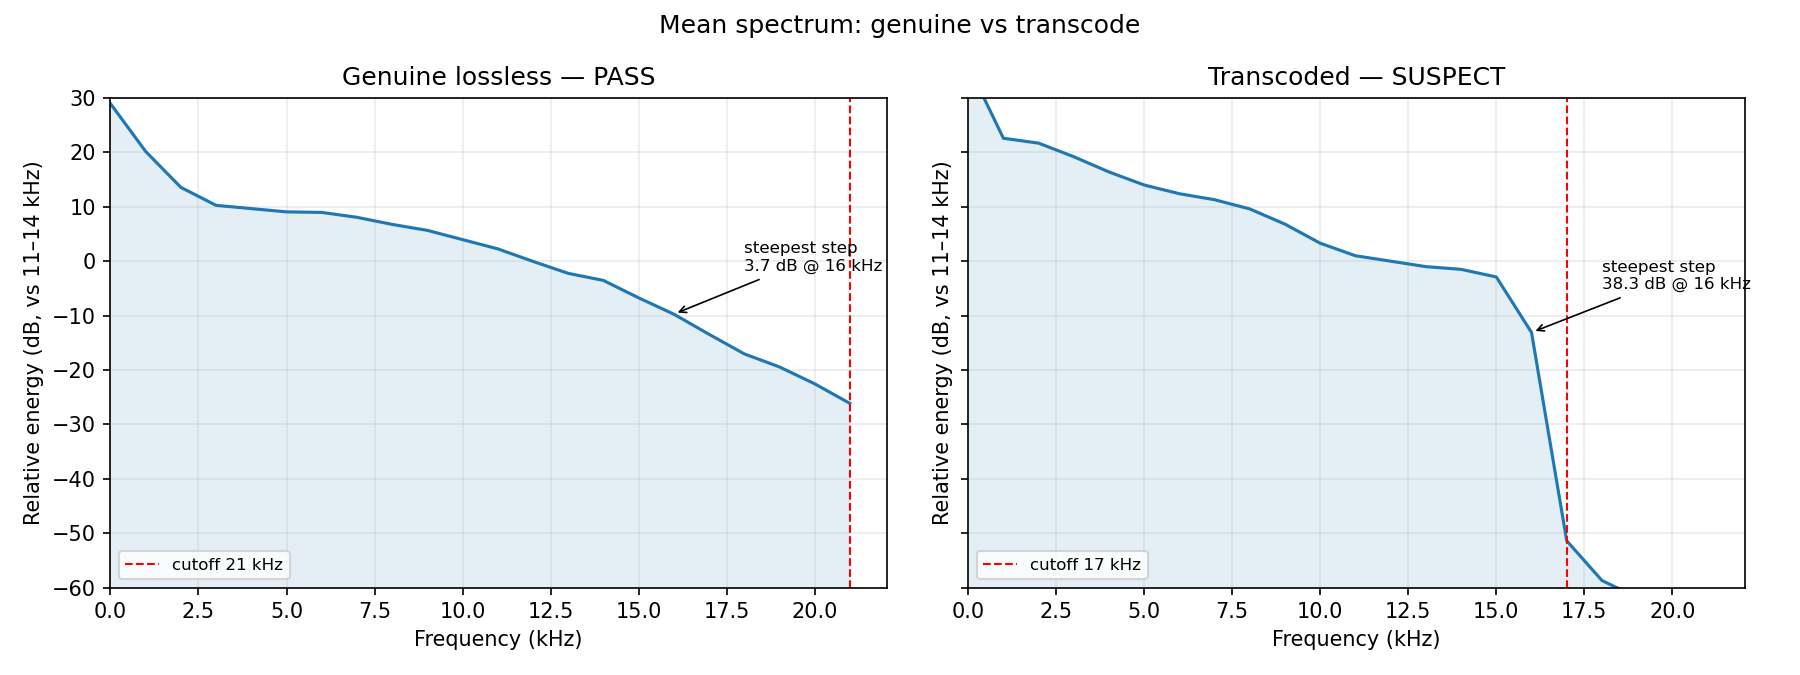
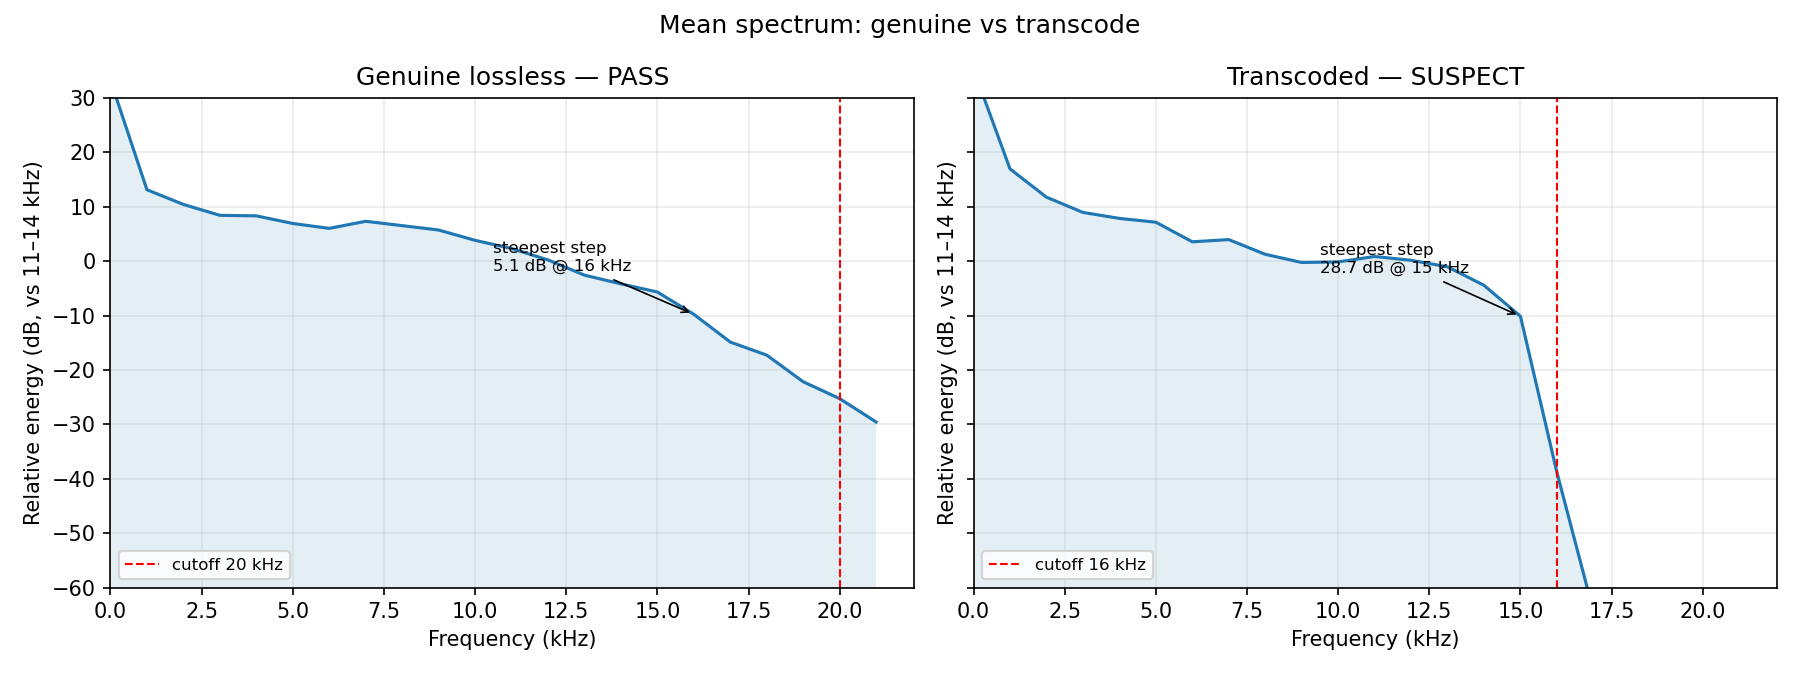
v0.1.1: fix plot_spectrum CLI + annotation, WAV/AIFF tagging, batch robustness, README polish

diff --git a/lossless_verify.py b/lossless_verify.py
@@ -106,6 +106,9 @@ def allowlisted(path, frags):
 
 def find_tool(name, explicit=None):
     if explicit:
+        if not (os.path.isfile(explicit) and os.access(explicit, os.X_OK)):
+            raise FileNotFoundError(
+                "%s not found: %s (not an executable file)" % (name, explicit))
         return explicit
     found = shutil.which(name)
     if not found:
@@ -131,6 +134,13 @@ def decode_mono(path, ffmpeg, ffprobe):
          "-f", "f32le", "-acodec", "pcm_f32le", "-"],
         capture_output=True)
     pcm = np.frombuffer(proc.stdout, dtype=np.float32)
+    if proc.returncode != 0 and len(pcm) == 0:
+        # Hard failure: no audio at all. Surface ffmpeg's message so the log
+        # says *why* (corrupt file, unsupported codec) instead of just UNKNOWN.
+        # (Partial decodes — nonzero exit but some PCM, e.g. truncated files —
+        # still fall through so analyze() can verdict the usable audio.)
+        err = proc.stderr.decode("utf-8", "replace").strip()[:500]
+        raise RuntimeError("ffmpeg failed for %s: %s" % (path, err))
     return pcm, sr
 
 
@@ -250,15 +260,36 @@ def tag_file(path, verdict, cutoff_hz):
         new = (cleaned + " | " + stamp) if cleaned.strip(" |") else stamp
         audio["\xa9cmt"] = [new]
         audio.save()
-    else:  # wav / aiff / ogg / opus: generic comment where supported
+    elif ext in (".wav", ".aiff", ".aif"):
+        # WAV/AIFF store comments as ID3 COMM frames (same as MP3).
+        from mutagen.id3 import ID3, COMM
+        if ext == ".wav":
+            from mutagen.wave import WAVE
+            audio = WAVE(path)
+        else:
+            from mutagen.aiff import AIFF
+            audio = AIFF(path)
+        if audio.tags is None:
+            audio.add_tags()
+        existing = " ".join(c.text[0] for c in audio.tags.getall("COMM") if c.text)
+        cleaned = STAMP_RE.sub("", existing)
+        new = (cleaned + " | " + stamp) if cleaned.strip(" |") else stamp
+        audio.tags.delall("COMM")
+        audio.tags.add(COMM(encoding=3, lang="eng", desc="", text=new))
+        audio.save()
+    elif ext in (".ogg", ".opus"):
+        # Vorbis comments.
         import mutagen
         audio = mutagen.File(path)
-        if audio is not None and hasattr(audio, "tags") and audio.tags is not None:
-            existing = " ".join(audio.get("comment", []))
-            cleaned = STAMP_RE.sub("", existing)
-            new = (cleaned + " | " + stamp) if cleaned.strip(" |") else stamp
-            audio["comment"] = new
-            audio.save()
+        if audio is None or not hasattr(audio, "tags") or audio.tags is None:
+            raise RuntimeError("cannot write comment to %s (no tag container)" % path)
+        existing = " ".join(audio.get("comment", []))
+        cleaned = STAMP_RE.sub("", existing)
+        new = (cleaned + " | " + stamp) if cleaned.strip(" |") else stamp
+        audio["comment"] = new
+        audio.save()
+    else:
+        raise RuntimeError("tagging not supported for %s files" % ext)
     return stamp
 
 
@@ -326,8 +357,15 @@ def handle_file(path, scan_root, args, ffmpeg, ffprobe, allow_frags, sink=None):
         v == "SUSPECT" and not args.sort_suspect)
     dest = None
     if should_sort:
-        dest = sort_file(path, rel, res, args.output_dir, args.move,
-                         args.log_file, args.quiet, sink=sink)
+        try:
+            dest = sort_file(path, rel, res, args.output_dir, args.move,
+                             args.log_file, args.quiet, sink=sink)
+        except Exception as e:
+            # One bad file (disk full, permissions, read-only output) must
+            # not abort the whole scan — log it and move on.
+            log("sort_error rel=%s err=%r" % (rel, e),
+                args.log_file, args.quiet, sink=sink)
+            return "ERROR"
     if args.tag and v in ("PASS", "SUSPECT", "FAIL"):
         # Tag the sorted copy in copy mode (source untouched); tag the
         # moved file after moving in --move mode; tag the source in place
@@ -360,6 +398,8 @@ def _process_one(task):
 
 def collect_files(input_path, exts, output_dir=None):
     if os.path.isfile(input_path):
+        if os.path.splitext(input_path)[1].lower() not in exts:
+            return [], os.path.dirname(os.path.abspath(input_path))
         return [input_path], os.path.dirname(os.path.abspath(input_path))
     scan_root = os.path.abspath(input_path)
     out_abs = os.path.abspath(output_dir) if output_dir else None
@@ -377,6 +417,10 @@ def collect_files(input_path, exts, output_dir=None):
             dirs[:] = [d for d in dirs
                        if os.path.abspath(os.path.join(root, d)) != out_abs]
         for fn in sorted(fns):
+            # Skip macOS AppleDouble files (._*.flac on FAT/exFAT/network
+            # volumes) — they match the extension but are not real audio.
+            if fn.startswith("._"):
+                continue
             if os.path.splitext(fn)[1].lower() in exts:
                 files.append(os.path.join(root, fn))
     return files, scan_root
@@ -423,26 +467,55 @@ def main(argv=None):
     if not os.path.exists(args.path):
         print("input not found: %s" % args.path, file=sys.stderr)
         return 2
-    ffmpeg = find_tool("ffmpeg", args.ffmpeg)
+    try:
+        ffmpeg = find_tool("ffmpeg", args.ffmpeg)
+    except FileNotFoundError as e:
+        print("error: %s" % e, file=sys.stderr)
+        return 2
     if args.ffprobe:
-        ffprobe = find_tool("ffprobe", args.ffprobe)
+        try:
+            ffprobe = find_tool("ffprobe", args.ffprobe)
+        except FileNotFoundError as e:
+            print("error: %s" % e, file=sys.stderr)
+            return 2
     elif args.ffmpeg:
         # ffprobe next to --ffmpeg if it exists there, else ffprobe on PATH.
-        # (find_tool returns an explicit path unchecked, so check existence
-        # here — a bare "--ffmpeg ffmpeg" also needs abspath, since
-        # dirname("ffmpeg") is "" and would bypass shutil.which.)
         candidate = os.path.join(
             os.path.dirname(os.path.abspath(args.ffmpeg)), "ffprobe")
-        ffprobe = (candidate if os.path.exists(candidate)
-                   else find_tool("ffprobe", None))
+        if os.path.isfile(candidate) and os.access(candidate, os.X_OK):
+            ffprobe = candidate
+        else:
+            try:
+                ffprobe = find_tool("ffprobe", None)
+            except FileNotFoundError as e:
+                print("error: %s" % e, file=sys.stderr)
+                return 2
     else:
-        ffprobe = find_tool("ffprobe", None)
+        try:
+            ffprobe = find_tool("ffprobe", None)
+        except FileNotFoundError as e:
+            print("error: %s" % e, file=sys.stderr)
+            return 2
+    if args.log_file:
+        # Create the log's parent dir so a nested --log-file doesn't crash.
+        log_parent = os.path.dirname(os.path.abspath(args.log_file))
+        if log_parent:
+            os.makedirs(log_parent, exist_ok=True)
     exts = {e.strip().lower() if e.strip().startswith(".") else "." + e.strip().lower()
             for e in args.extensions.split(",") if e.strip()}
     allow_frags = load_allowlist(args.allowlist)
-    os.makedirs(args.output_dir, exist_ok=True)
+    try:
+        os.makedirs(args.output_dir, exist_ok=True)
+    except OSError as e:
+        print("error: cannot create output dir %s: %s"
+              % (args.output_dir, e), file=sys.stderr)
+        return 2
 
     files, scan_root = collect_files(args.path, exts, args.output_dir)
+    if not files and os.path.isfile(args.path):
+        print("skipped: %s does not match --extensions (%s)"
+              % (args.path, ",".join(sorted(exts))), file=sys.stderr)
+        return 2
     log("scan start path=%s files=%d output=%s mode=%s workers=%d"
         % (args.path, len(files), args.output_dir,
            "move" if args.move else "copy", args.workers),

diff --git a/scripts/plot_spectrum.py b/scripts/plot_spectrum.py
@@ -11,13 +11,17 @@ Usage:
   # From an audio file (requires ffmpeg + lossless_verify.py):
   python3 scripts/plot_spectrum.py track.flac --output spectrum.png
 
-  # From a sanitized spectrum JSON (band_db + cutoff + max_drop):
-  python3 scripts/plot_spectrum.py --from-json spectrum.json --output spectrum.png
+  # From a sanitized spectrum JSON (auto-detected by .json extension):
+  python3 scripts/plot_spectrum.py spectrum.json --output spectrum.png
 
   # Side-by-side comparison for README (two JSONs or two audio files):
-  python3 scripts/plot_spectrum.py --compare genuine.json transcode.json \\
-      --output assets/spectrum-compare.png \\
+  python3 scripts/plot_spectrum.py --compare genuine.json transcode.json \
+      --output assets/spectrum-compare.png \
       --titles "Genuine lossless — PASS" "Transcoded — SUSPECT"
+
+  JSON inputs are auto-detected by the .json extension, so --from-json is only
+  needed for JSON files with a different extension. Because --compare takes its
+  own two files, --titles can appear before or after the inputs.
 
 The JSON format is the same shape as lossless_verify.py's .verdict.json sidecars
 (verdict, cutoff_hz, max_drop_db, sr, cliff_ratio, band_db), minus the
@@ -81,8 +85,13 @@ def plot_one(ax, spec, title):
     ax.axvline(cutoff_khz, color="red", linestyle="--", linewidth=1,
                label="cutoff %.0f kHz" % cutoff_khz)
     if drops:
+        # Label goes left of the cliff: a cliff at/above 15 kHz would push a
+        # right-side label past the axes edge (xlim tops out at sr/2).
+        # Clamp y so the label stays inside the (-60, 30) view.
+        text_x = max_khz - 5.5 if max_khz >= 15 else max_khz + 2
+        text_y = min(max(rel[max_khz] + 8, -55), 22)
         ax.annotate("steepest step\n%.1f dB @ %d kHz" % (max_drop, max_khz),
-                    xy=(max_khz, rel[max_khz]), xytext=(max_khz + 2, rel[max_khz] + 8),
+                    xy=(max_khz, rel[max_khz]), xytext=(text_x, text_y),
                     fontsize=8, arrowprops={"arrowstyle": "->", "lw": 0.8})
     ax.set_xlim(0, sr / 2000.0)
     ax.set_ylim(-60, 30)
@@ -99,7 +108,7 @@ def main(argv=None):
     p.add_argument("inputs", nargs="*", help="audio file(s) or spectrum JSON(s)")
     p.add_argument("--from-json", action="store_true",
                    help="treat inputs as spectrum JSON files (default: audio)")
-    p.add_argument("--compare", action="store_true",
+    p.add_argument("--compare", nargs=2, metavar=("FILE1", "FILE2"),
                    help="side-by-side comparison of exactly two inputs")
     p.add_argument("--titles", nargs="*", default=None,
                    help="titles for each panel (default: verdict + numbers)")
@@ -108,8 +117,9 @@ def main(argv=None):
     p.add_argument("--output", "-o", required=True, help="output PNG path")
     args = p.parse_args(argv)
 
-    if not args.inputs or (args.compare and len(args.inputs) != 2):
-        p.error("--compare needs exactly two inputs; otherwise pass one input")
+    inputs = list(args.compare) if args.compare else list(args.inputs)
+    if not inputs:
+        p.error("pass one input, or --compare FILE1 FILE2 for a side-by-side")
     try:
         import matplotlib
         matplotlib.use("Agg")
@@ -120,8 +130,8 @@ def main(argv=None):
         return 2
 
     specs = []
-    for inp in args.inputs:
-        if args.from_json:
+    for inp in inputs:
+        if args.from_json or inp.lower().endswith(".json"):
             specs.append(spectrum_from_json(inp))
         else:
             specs.append(spectrum_from_audio(inp, args.ffmpeg, args.ffprobe))

diff --git a/README.md b/README.md
@@ -1,15 +1,13 @@
 # lossless-verify — fake-lossless detector + quality sorter (FLAC, WAV, AIFF, ALAC, MP3, M4A, OGG, Opus)
 
-Automated analysis detecting whether a FLAC (or WAV / AIFF / MP3 / M4A / OGG / Opus) file is lossless or a lossy file transcoded as a lossless file and automated filing of analyzed files into folders based on analysis output. This tool automates spectral analysis to mitigate usage of poor audio quality being used in professional applications in circumstances where industrial equipment such as venue sound systems are not available for live testing.
+The problem is real: MP3-to-FLAC transcodes are everywhere in download pools, sample packs, and "24-bit" stores. They look lossless (right extension, right bit depth) but they sound flat, especially on a big system. You cannot hear the difference on laptop speakers. You can measure it in the spectrum.
 
-MP3-to-FLAC transcodes are common in download pools, sample packs, and additionally, file sharing softwares at times, degrade spectrum quality of audio files.
-
-Despite an audio file displaying the correct extension, and metadata, its difficult to determine authenticity of sound quality unless you have access to the hardware to verify or sift through the tedious process of manually reviewing spectrogram images of imported audio files. lossless-verify assists needing to verify legitimate lossless audio.
+This tool automates that measurement — spectral analysis that detects lossy-to-lossless transcodes, then files everything into folders by verified quality. Built for a DJ download pipeline (fetch → analyze → sort), where you can't A/B every file on a venue system before the gig.
 
 ![Mean spectrum: genuine lossless (gradual slope) vs transcoded (vertical brickwall)](assets/spectrum-compare.png)
 
-Left: genuine lossless: gradual rolloff, steepest 1 kHz step 3.7 dB.
-Right: transcoded lossy to lossless: near-vertical brickwall, 38.3 dB drop at 16 kHz.
+Left: genuine lossless: gradual rolloff, steepest 1 kHz step 5.1 dB.
+Right: transcoded lossy to lossless: near-vertical brickwall, 28.7 dB drop at 15 kHz.
 
 ## How it works
 
@@ -24,18 +22,18 @@ Verdicts are driven by cliff steepness, not cutoff location:
 
 | Verdict | Rule |
 |---|---|
-| FAIL | Any 1 kHz step drops > 40 dB (unambiguous brickwall) |
-| SUSPECT | A step drops > 30 dB, or a step > 3× the local median slope with > 12 dB absolute below 24 kHz, or cutoff ≤ 18 kHz |
-| PASS | Otherwise |
-| UNKNOWN | Could not be decoded / no audible frames |
+| `FAIL` | Any 1 kHz step drops > 40 dB (unambiguous brickwall) |
+| `SUSPECT` | A step drops > 30 dB, or a step > 3× the local median slope with > 12 dB absolute below 24 kHz, or cutoff ≤ 18 kHz |
+| `PASS` | Otherwise |
+| `UNKNOWN` | Could not be decoded / no audible frames |
 
-Why steepness, not cutoff? Lossy codecs leave a near-vertical lowpass wall. Genuine masters roll off gradually flat modern masters, vintage tape slope, dark mixes. A low cutoff with no cliff is content, not a transcode fingerprint. Naive checkers that flag "cutoff < 20 kHz = fake" falsely flag genuine dark / vintage masters. This tool does not.
+Why steepness, not cutoff? Lossy codecs leave a near-vertical lowpass wall. Genuine masters roll off gradually — flat modern masters, vintage tape slope, dark mixes. A low cutoff with no cliff is content, not a transcode fingerprint. Naive checkers that flag "cutoff < 20 kHz = fake" falsely flag genuine dark / vintage masters. This tool does not.
 
 The relative-slope rule (3× median) only applies below 24 kHz, where lossy codecs actually lowpass. Above that, ultrasonic content is sparse and the ratio overshoots on genuine hi-res masters.
 
 ### Why lossy formats (MP3 / M4A / OGG / Opus) are scanned too
 
-lossless-verify verifies lossless claims, and it scans lossy formats by default on purpose. For lossy files the tool acts as a **generation-loss / bad-rip detector**: it separates clean 320k MP3 / 256k AAC files (which land in NEAR_CD) from re-encoded 128k rips (which land in BORDERLINE / LOW_QUALITY). That matters when pulling edits and remixes from SoundCloud or YouTube, where a file may have been re-encoded multiple times before you got it. Because lossy codecs still leave a lowpass wall, a clean 320 kbps MP3 lands in FAIL/NEAR_CD or SUSPECT/NEAR_CD rather than PASS (which is reserved for full-bandwidth lossless) letting the tier folders separate clean lossy files from degraded transcodes.
+lossless-verify verifies lossless claims, and it scans lossy formats by default on purpose. For lossy files the tool acts as a **generation-loss / bad-rip detector**: it separates clean 320k MP3 / 256k AAC files (which land in `NEAR_CD`) from re-encoded 128k rips (which land in `BORDERLINE` / `LOW_QUALITY`). That matters when pulling edits and remixes from SoundCloud or YouTube, where a file may have been re-encoded multiple times before you got it. Because lossy codecs still leave a lowpass wall, a clean 320 kbps MP3 lands in `FAIL`/`NEAR_CD` or `SUSPECT`/`NEAR_CD` rather than `PASS` (which is reserved for full-bandwidth lossless), letting the tier folders separate clean lossy files from degraded transcodes.
 
 ## Requirements
 
@@ -43,7 +41,7 @@ lossless-verify verifies lossless claims, and it scans lossy formats by default 
 
 | Requirement | Version | Notes |
 |---|---|---|
-| Python | 3.9+ | Tested on 3.11 |
+| Python | 3.9+ | Tested on 3.11. On Windows, use `py -3` in place of `python3` |
 | ffmpeg + ffprobe | Any recent build | Must be on PATH, or pass --ffmpeg |
 | numpy, mutagen | See requirements.txt | Installed via pip (below) |
 
@@ -167,11 +165,11 @@ Each sorted file gets a `.verdict.json` sidecar. It includes the analysis plus `
 
 | Tier | Meaning |
 |---|---|
-| NEAR_CD | Near-CD quality, worth auditioning |
-| BORDERLINE | YouTube-grade or better, borderline |
-| LOW_QUALITY | Very low ceiling, unlikely salvageable |
+| `NEAR_CD` | Near-CD quality, worth auditioning |
+| `BORDERLINE` | YouTube-grade or better, borderline |
+| `LOW_QUALITY` | Very low ceiling, unlikely salvageable |
 
-LOW_QUALITY means low-quality, not garbage to auto-delete. Audition before deleting anything.
+`LOW_QUALITY` means low-quality, not garbage to auto-delete. Audition before deleting anything.
 
 ### Tagging (opt-in)
 
@@ -184,13 +182,14 @@ Lossless-Verify: PASS | cutoff 22.0kHz | 2026-10-18
 - FLAC → Vorbis comment
 - MP3 → ID3 COMM
 - M4A → ©cmt
-- WAV / AIFF / OGG / Opus → generic comment where supported
+- WAV / AIFF → ID3 COMM
+- OGG / Opus → Vorbis comment
 
 Re-running replaces the old stamp instead of stacking duplicates. DJ software that shows a Comments column (e.g. Rekordbox) can then build playlists off the verified quality level.
 
 ## Plotting spectra
 
-`scripts/plot_spectrum.py` renders a mean-spectrum plot from an audio file or from a `.verdict.json` sidecar (strip the original path before sharing JSONs). It is how the comparison image above was made.
+`scripts/plot_spectrum.py` renders a mean-spectrum plot from an audio file or from a `.verdict.json` sidecar (strip the original path before sharing JSONs). It is how the comparison image above was made. JSON inputs are auto-detected by the `.json` extension.
 
 ```bash
 # From audio files
@@ -205,8 +204,11 @@ python3 scripts/plot_spectrum.py --compare genuine.json transcode.json \
 Requires matplotlib (optional dependency, not in requirements.txt):
 
 ```bash
-pip install matplotlib
+pip install ".[plot]"
+# or: pip install matplotlib
 ```
+
+Note: the plotting script ships with the repo — run it from a clone (`scripts/plot_spectrum.py`). A pip/pipx install provides the `lossless-verify` command only.
 
 ## Automation — the original use case
 
@@ -218,7 +220,7 @@ Fetch → Analyze → Sort
 - Analyze: Run `lossless_verify.py` on the incoming folder.
 - Sort: Files land in PASS / SUSPECT / FAIL (+ tiers). The DJ / producer only reviews SUSPECT and FAIL. PASS files go straight to the library.
 
-Example — a minimal incoming-folder worker (see `examples/automate_workflow.sh`):
+Example — a minimal incoming-folder worker (see `examples/automate_workflow.sh` — it runs from a repo clone; on Windows, run it under Git Bash or WSL. If you installed via pipx, call the `lossless-verify` command directly instead):
 
 ```bash
 INCOMING=~/Music/incoming
